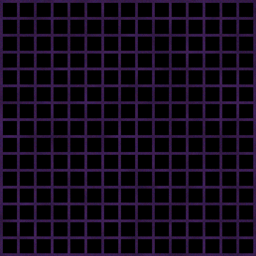
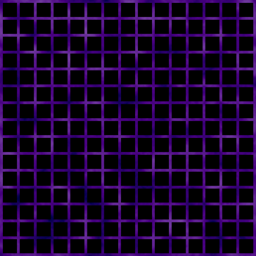
added player sprite movement

diff --git a/src/player.js b/src/player.js
@@ -1,41 +1,63 @@
 class Player {
     constructor() {
+        this.time = 0;
         this.fov = 3.14159 / 4.0;
 
         this.x = 0.0;
         this.y = 0.0;
         this.z = 0.1;
 
-        this.speed = 0.006;
+        this.speed = 0.008;
 
         this.angle = 0.0;
+        this.angularSpeed = 0.0;
+
+        let tex = PIXI.loader.resources[ASSETS_SHIP].texture;
+        this.shipSprite = new PIXI.Sprite(tex);
+
+        this.sprite = new PIXI.Container(tex.width, tex.height * 2);
+        this.sprite.addChild(this.shipSprite);
+        this.sprite.pivot.set(this.shipSprite.width / 2, this.shipSprite.height / 2);
+        this.sprite.x = GAME_WIDTH / 2;
+        this.sprite.y = GAME_HEIGHT / 2 + 50;
     }
 
     update(deltaTime) {
+        this.time += deltaTime;
         this.getInput(deltaTime);
         this.updateSpeed(deltaTime);
+        this.updateSpites();
+    }
+
+    updateSpites() {
+        this.shipSprite.y = Math.sin(this.time * .07) * 1.5;
     }
 
     updateSpeed(deltaTime) {
         this.x += Math.cos(this.angle) * this.speed * deltaTime;
         this.y += Math.sin(this.angle) * this.speed * deltaTime;
+
+        this.angularSpeed *= 0.93;
+        this.angle += this.angularSpeed;
+        this.sprite.rotation = this.angularSpeed * 15;
+        this.sprite.x = (GAME_WIDTH / 2) + (this.angularSpeed * 200);
     }
 
     getInput(deltaTime) {
-        if (game.input.keyDown(KEY_UP)) {
-            this.z += 0.005 * deltaTime;
-        }
+        // if (game.input.keyDown(KEY_UP)) {
+        //     this.z += 0.005 * deltaTime;
+        // }
         
-        if (game.input.keyDown(KEY_DOWN)) {
-            this.z -= 0.005 * deltaTime;
-        }
+        // if (game.input.keyDown(KEY_DOWN)) {
+        //     this.z -= 0.005 * deltaTime;
+        // }
     
         if (game.input.keyDown(KEY_LEFT)) {
-            this.angle -= 0.05 * deltaTime;
+            this.angularSpeed -= 0.004 * deltaTime;
         }
     
         if (game.input.keyDown(KEY_RIGHT)) {
-            this.angle += 0.05 * deltaTime;
+            this.angularSpeed += 0.004 * deltaTime;
         }
     }
 }

diff --git a/src/game.js b/src/game.js
@@ -16,6 +16,7 @@ class Game {
 
     preloadAssets() {
         PIXI.loader
+            .add(ASSETS_SHIP)
             .add(ASSETS_MAP)
             .load(this.startGame.bind(this));
     }
@@ -51,16 +52,17 @@ class Game {
 
     initFilters() {
         var bloom = new PIXI.filters.BloomFilter();
+        bloom.blur = 5;
         var aberration = new PIXI.filters.RGBSplitFilter();
         aberration.red.x = 0;
-        aberration.red.y = 1.5;
-        aberration.green.x = 1.5;
+        aberration.red.y = .5;
+        aberration.green.x = .5;
         aberration.green.y = 0;
         var crt = new PIXI.filters.CRTFilter();
         crt.curvature = 6;
         crt.noise = 0.1;
         crt.lineContrast = .2;
-        this.app.stage.filters = [bloom, aberration, crt];
+        this.app.stage.filters = [blur, aberration, crt];
     }
 
     update(delta) {

diff --git a/src/gameplay.js b/src/gameplay.js
@@ -9,6 +9,7 @@ class GamePlay {
         game.app.stage.addChild(this.container);
         
         this.container.addChild(this.map.container);
+        this.container.addChild(this.player.sprite);
     }
     
     update(game) {

diff --git a/src/data.js b/src/data.js
@@ -2,6 +2,7 @@ const GAME_WIDTH = 320;
 const GAME_HEIGHT = 240;
 
 const ASSETS_MAP = "assets/pattern.png";
+const ASSETS_SHIP = "assets/ship.png";
 
 const KEY_LEFT = "keyleft";
 const KEY_RIGHT = "keyright";
